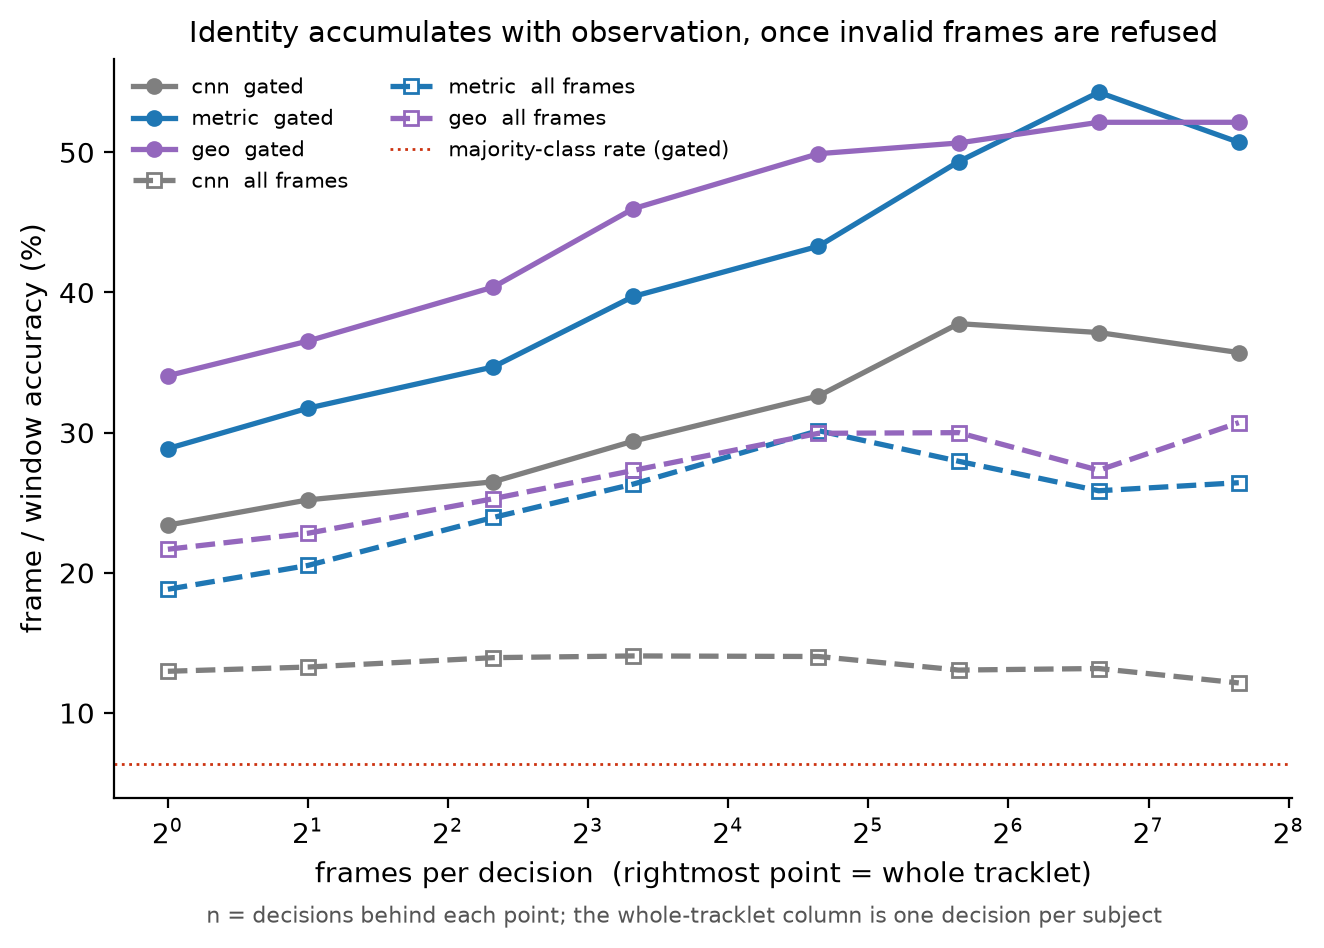
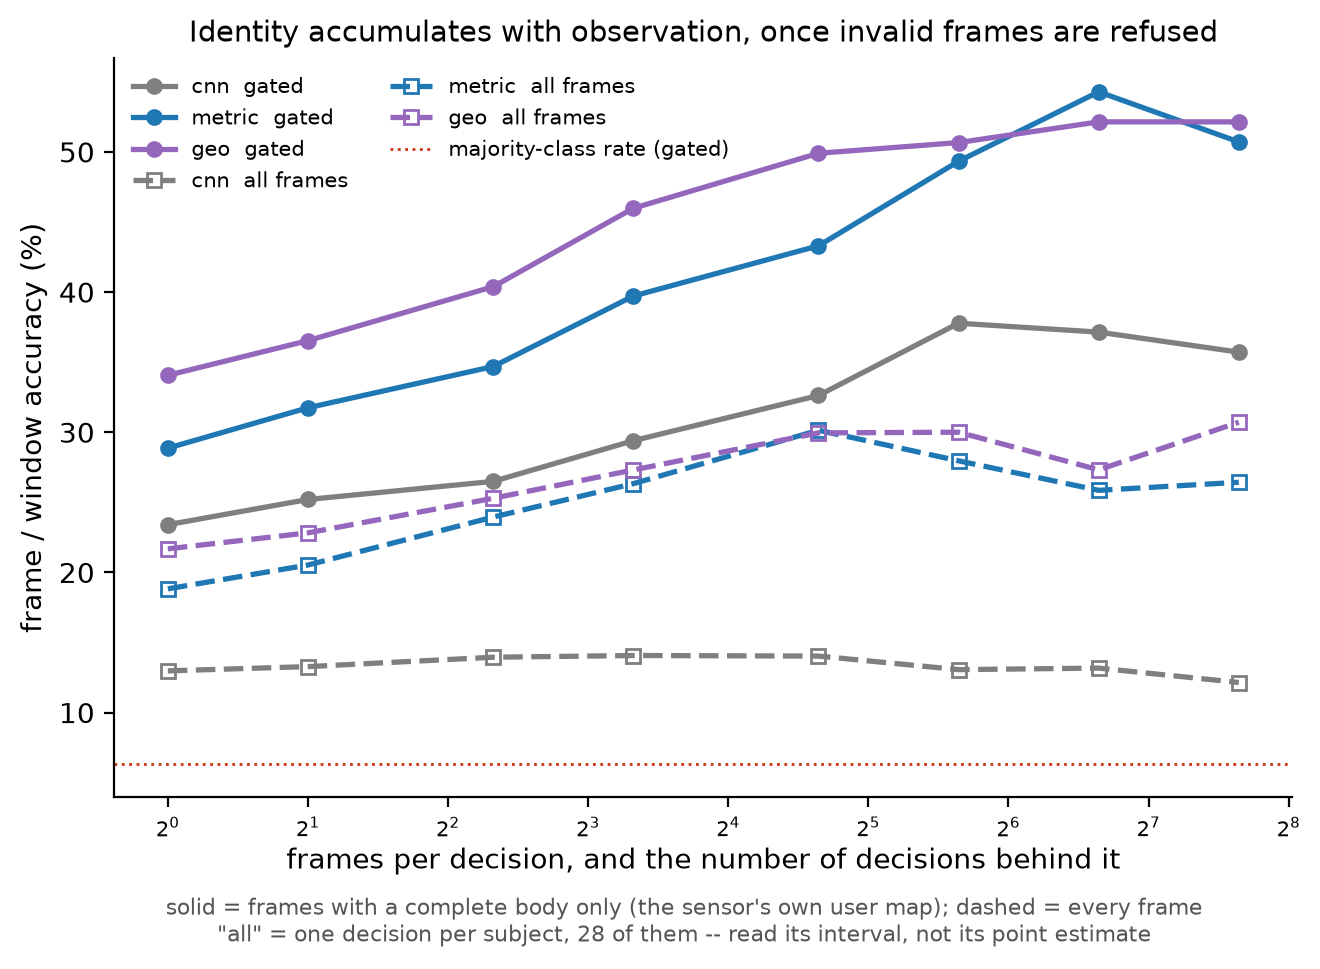
fig7: apply the ticks AFTER set_xscale, which was discarding them
The previous commit set explicit ticks inside the per-file loop, then called
set_xscale("log", base=2) afterwards -- which installs a log locator and threw
them away, so the axis still read 2^0..2^8 and the n= counts never appeared.
Verified both orderings against matplotlib: only setting them after the scale
survives.

diff --git a/hiride_figures.py b/hiride_figures.py
@@ -427,7 +427,7 @@ def fig_operating_point(paths, out):
     import json as _json
     fig, ax = plt.subplots(figsize=(7.6, 4.8))
     ARMS = (("cnn", "#7f7f7f"), ("metric", DEPTH_C), ("geo", "#9467bd"))
-    drawn = False
+    drawn, ticks, labels = False, [], []
     for pi, path in enumerate(paths):
         try:
             blob = _json.load(open(path))
@@ -454,24 +454,24 @@ def fig_operating_point(paths, out):
                     markerfacecolor=colour if pi == 0 else "none",
                     label=f"{arm}  {'gated' if gated else 'all frames'}")
         if pi == 0:
-            ticks, labels = [], []
-            for w, x in zip(W, xs):
-                n = rec["n_decisions"][str(w)]
-                ticks.append(x)
-                labels.append(("all" if w == 0 else str(w)) + f"\nn={int(n)}")
-            # Explicit ticks at the windows actually measured. A log2 axis
-            # labelled 2^0..2^8 cannot tell a reader which point is 25 frames,
-            # and the decision count belongs ON the axis: the rightmost columns
-            # rest on 28 decisions and must not be read like the leftmost, which
-            # rests on 2,933.
-            ax.set_xticks(ticks)
-            ax.set_xticklabels(labels, fontsize=7.5)
-            ax.tick_params(axis="x", which="minor", bottom=False)
+            ticks = list(xs)
+            labels = [("all" if w == 0 else str(w))
+                      + f"\nn={int(rec['n_decisions'][str(w)])}" for w in W]
     if not drawn:
         print("  (fig7 skipped: no sequence json)")
         plt.close(fig)
         return
     ax.set_xscale("log", base=2)
+    # AFTER set_xscale, which installs a log locator and would otherwise
+    # discard these. Explicit ticks at the windows actually measured: an axis
+    # labelled 2^0..2^8 cannot tell a reader which point is the 25-frame
+    # operating point the paper quotes. The decision count belongs on the axis
+    # too -- the curve rises toward its noisiest end, so the eye lands on the
+    # whole-tracklet column exactly where there are 28 decisions, not 2,933.
+    if ticks:
+        ax.set_xticks(ticks)
+        ax.set_xticklabels(labels, fontsize=7.5)
+        ax.tick_params(axis="x", which="minor", bottom=False)
     ax.set_xlabel("frames per decision, and the number of decisions behind it",
                   labelpad=2)
     ax.set_ylabel("frame / window accuracy (%)")
